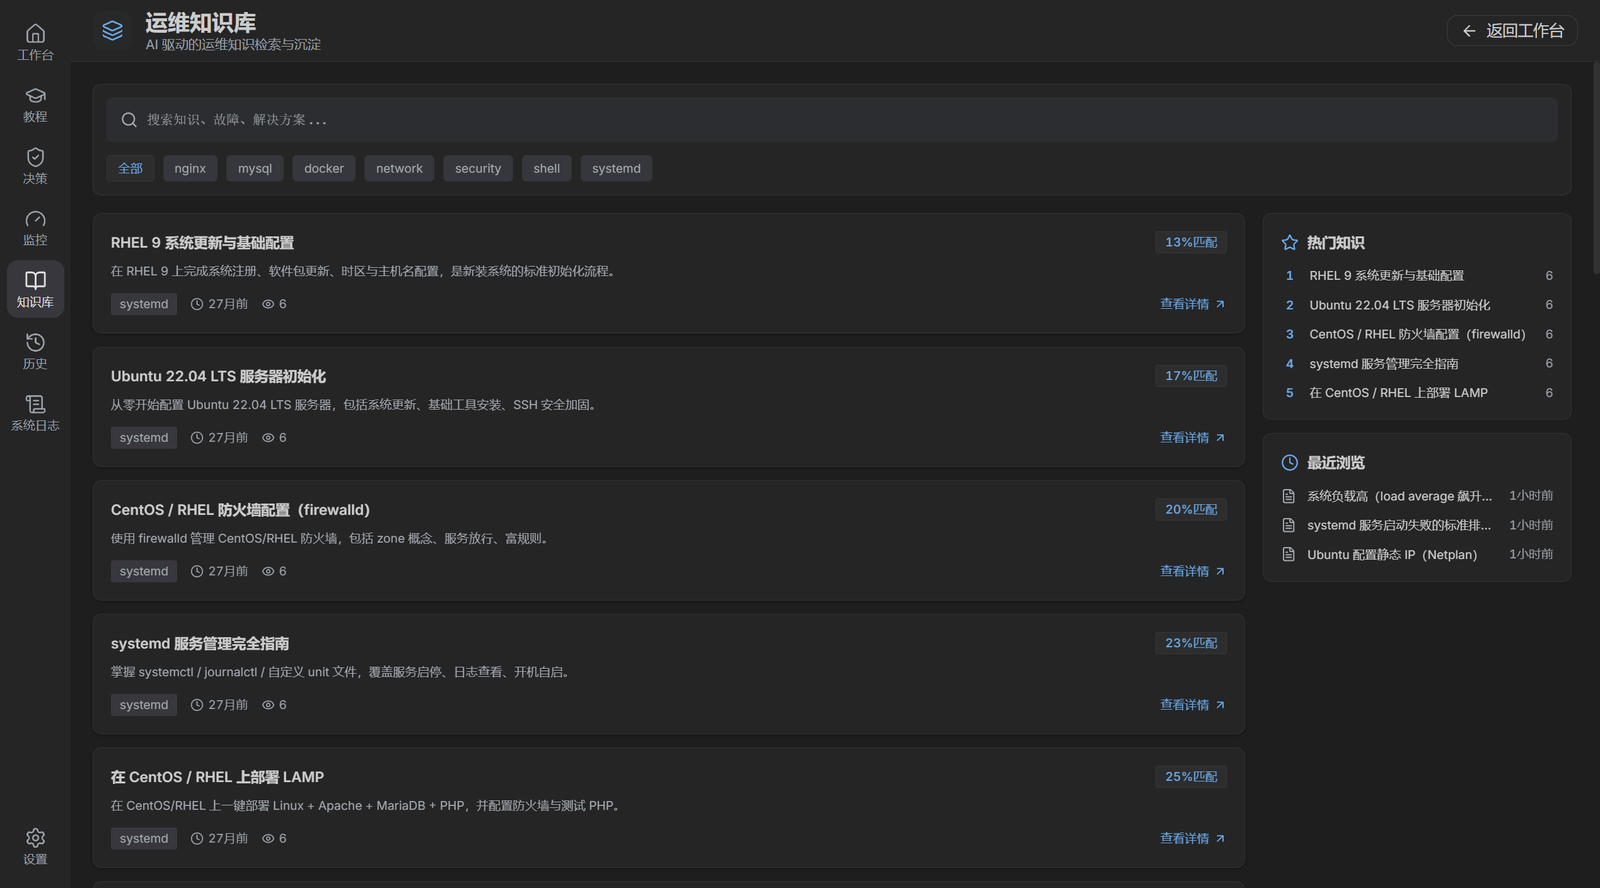
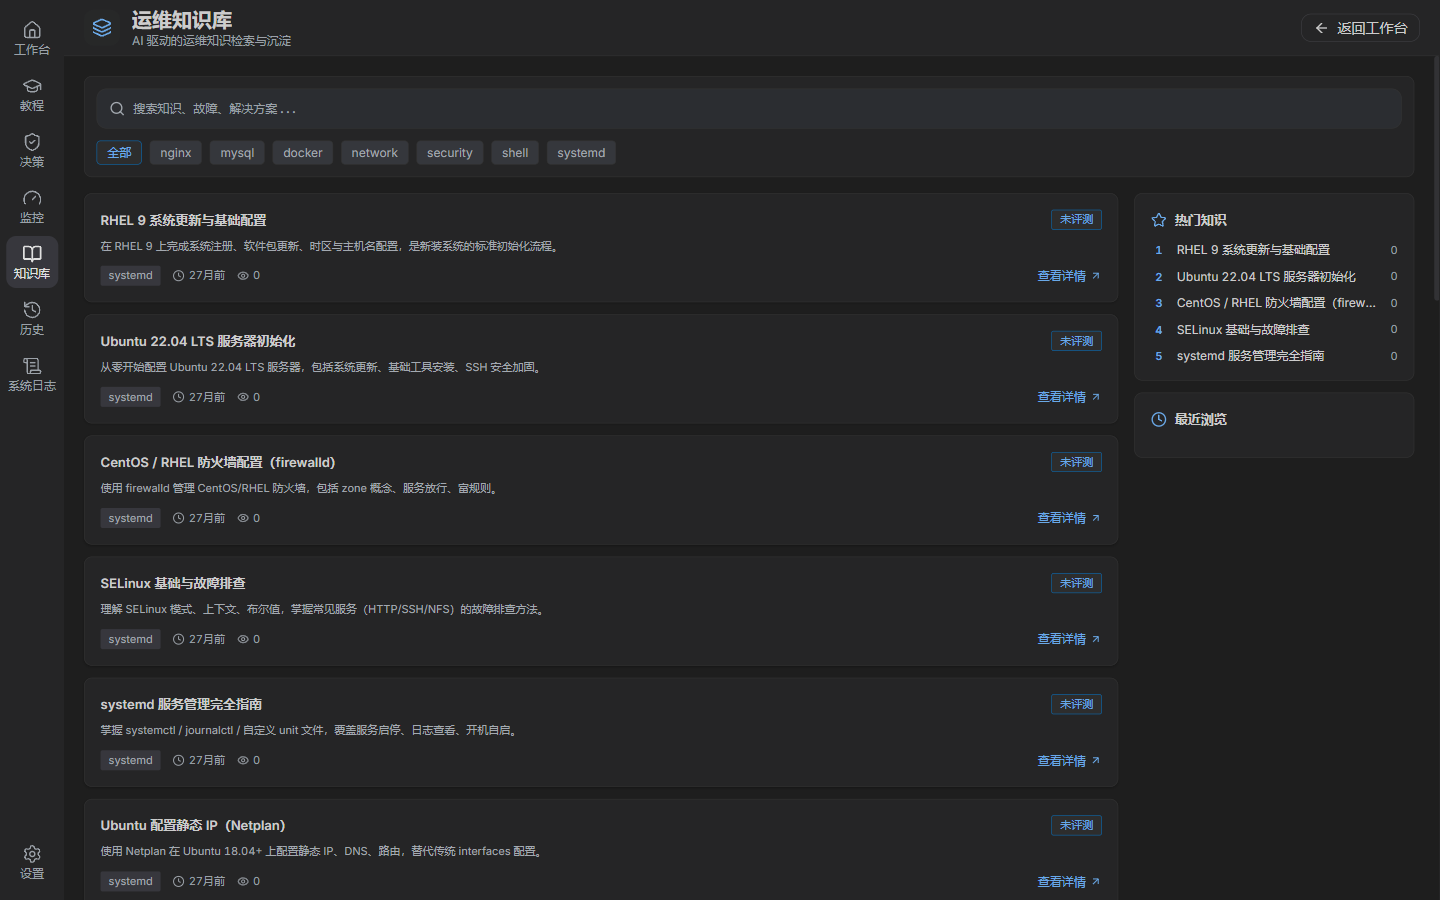
docs(tdsf-linux-desktop): 换当前构建的真图并按 2026-10-18 现量重标数字
- 三张截图重拍自当前构建（自己起的实例 + 独立临时档案，不碰用户真实 userDataDir）：
  启动页已改成"纯加载 + 自动进工作台"，旧图里那颗按钮和进度条都不存在了；
  知识库那张现在能看到选中档的品牌蓝描边
- 数字全部重测：单元/组件用例 3246→3249、端到端 61→59（另 13 条按环境跳过）、
  源文件 507→508；IPC 通道原先写 283，对不上任何可复现口径，改成 audit:ipc 现量 272
  （232 请求-响应 + 40 事件推送），并把"全部由契约生成"改成实情：
  名字来自一张中央常量表，已纳入 zod 契约的是 31 条
- 发布前核对：页面文本与三屏渲染文本都不含内网地址（脚本按 .env.local 的锚定值比对）

diff --git a/tdsf-linux-desktop/index.html b/tdsf-linux-desktop/index.html
@@ -344,7 +344,7 @@
       <div class="proc">
         <div class="role">Preload · contextBridge</div>
         <h3>受控边界</h3>
-        <p>283 个 IPC 通道由契约生成，入参在入口做严格校验，错误以统一信封返回。</p>
+        <p>272 条通道（232 请求-响应 + 40 事件推送）的名字全部来自一张中央常量表；已纳入 zod 契约的 31 条在入口校验入参，错误统一按信封返回。</p>
       </div>
       <div class="proc">
         <div class="role">渲染进程 · React 19</div>
@@ -409,13 +409,13 @@
 
   <section id="quality">
     <h2>质量与验证</h2>
-    <p class="sec-note">下面每个数字都在 2026-10-17 由本机脚本重新量过；界面上不出现没有生产者的统计值。</p>
+    <p class="sec-note">下面每个数字都在 2026-10-18 由本机脚本重新量过（用例数取 vitest 汇总，通道数取 <code>npm run audit:ipc</code>）；界面上不出现没有生产者的统计值。</p>
     <div class="stats">
-      <div class="stat"><div class="n">3246</div><div class="l">单元与组件用例通过（270 个测试文件，0 失败）</div></div>
-      <div class="stat"><div class="n">61</div><div class="l">端到端用例通过（Playwright 直驱真实应用窗口）</div></div>
-      <div class="stat"><div class="n">507</div><div class="l">TypeScript / TSX 源文件</div></div>
-      <div class="stat"><div class="n">283</div><div class="l">IPC 通道，全部由契约单源生成</div></div>
-      <div class="stat"><div class="n">24</div><div class="l">AI 可调用的受控工具</div></div>
+      <div class="stat"><div class="n">3249</div><div class="l">单元与组件用例通过（270 个测试文件，0 失败，19 条按环境跳过）</div></div>
+      <div class="stat"><div class="n">59</div><div class="l">端到端用例通过（Playwright 直驱真实应用窗口，另 13 条按环境跳过）</div></div>
+      <div class="stat"><div class="n">508</div><div class="l">TypeScript / TSX 源文件</div></div>
+      <div class="stat"><div class="n">272</div><div class="l">IPC 通道：232 条请求-响应 + 40 条事件推送</div></div>
+      <div class="stat"><div class="n">24</div><div class="l">AI 可调用的受控工具（六个域注册表去重后的名字数）</div></div>
     </div>
     <h3 style="margin:22px 0 10px;font-size:1.02rem">每次提交前会跑红的门禁</h3>
     <div class="gates">
